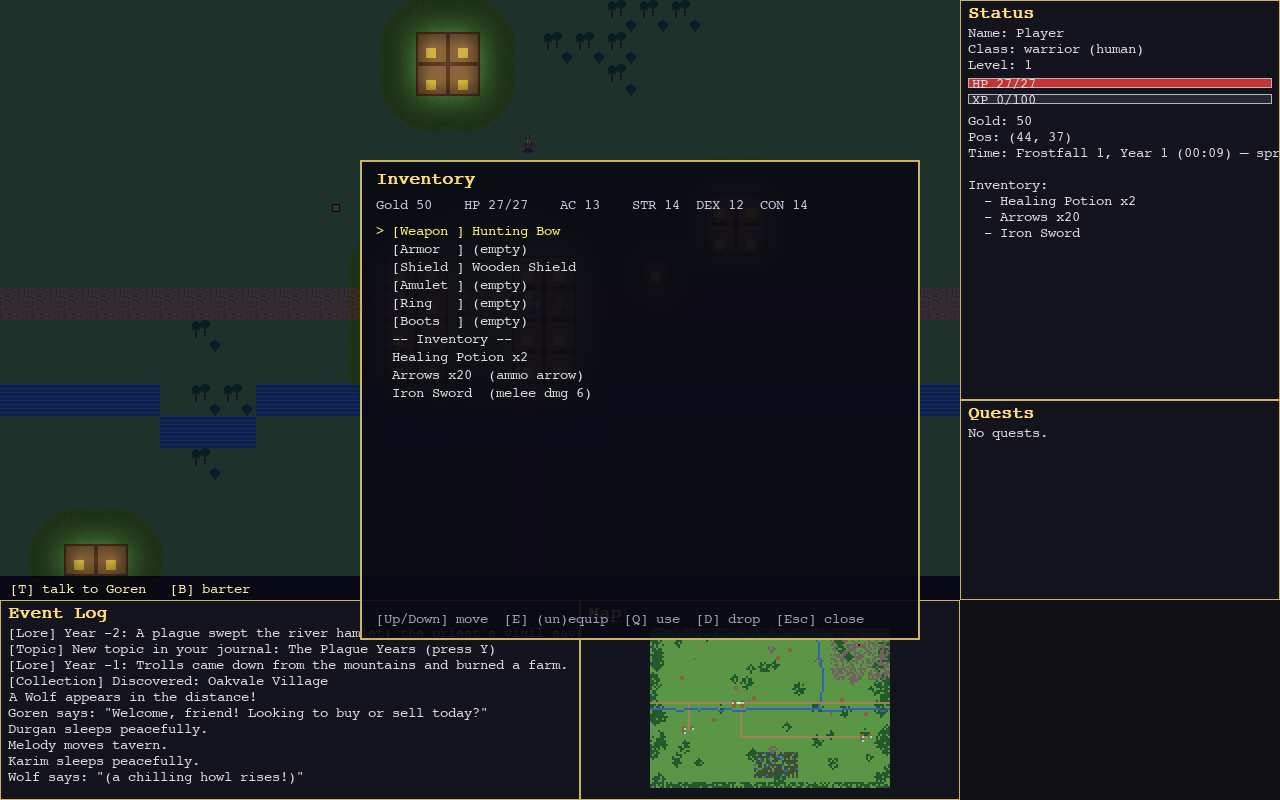
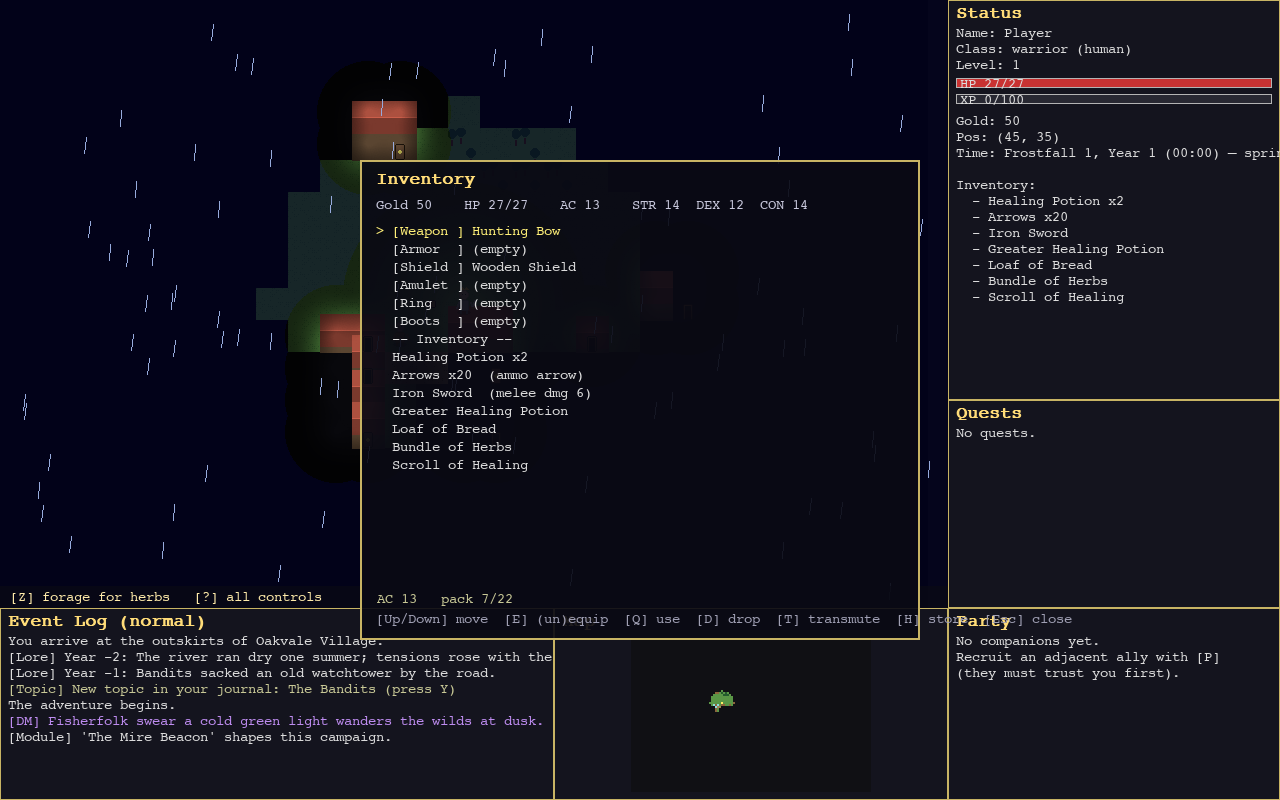
Docs: remake README to current state, fresh figures, open Phase 25
Remake README.md around the game as it actually is (Phases 0-19 complete,
20 in progress): the living world, the monster ecology (packs/tribes/
elites/dragons/nemesis), the living society (ambitions, social graph), the
tactical battle layer, the royal castle, the DM, and multiplayer — with a
systems table, an accurate controls reference from ui/controls.py, and
status notes.

Re-capture three figures headlessly: gameplay (Oakvale in the rain),
inventory/gear, and a new battle-testbed siege shot.

Open Phase 25 (Inventory, Items & the Skill Web) from new playtest notes:
region-change ground-item bleed bug, stackable-item grouping bug, magical
bags/rucksacks, a drag-and-drop character/items window, and a widened
skill lattice with skill-gated items & features.

diff --git a/README.md b/README.md
@@ -1,207 +1,144 @@
 # LLM-RPG
 
-**A locally-runnable, D&D-style role-playing game with LLM-powered NPCs.**
-Runs entirely offline out of the box (a heuristic AI keeps the world alive), and
-plugs into Ollama, Anthropic Claude, or OpenAI for richer NPC minds.
+**A locally-runnable, D&D-style role-playing game with a living world and
+LLM-powered NPCs.** It runs entirely offline out of the box — a heuristic AI
+keeps the whole world alive with zero API calls — and plugs into Ollama,
+Anthropic Claude, or OpenAI when you want richer NPC minds.
 
 ![Gameplay — Oakvale Village in the rain](docs/img/gameplay.png)
-*Exploring Oakvale Village in the rain: procedural sprites, day/night lighting,
-live minimap, event log with world lore from the pre-game history simulation.*
+*Oakvale in the rain: procedural sprites, eased day/night lighting and weather,
+fog-of-war, a live minimap, and an event log threaded with world lore, DM beats,
+and the legends of the fallen.*
 
 ```bash
 pip install -r requirements.txt
-python main.py                                  # Pygame GUI, no LLM needed
+python main.py                       # Pygame GUI, no LLM needed (heuristic AI)
+python main.py --tutorial            # start on Tutorial Island
 python main.py --provider anthropic --model claude-haiku-4-5-20251001
+python main.py --ui terminal         # text UI
 ```
 
 ---
 
-## The game today
+## What the game is today
 
-A living-world RPG on a 120×80 tile map: three settlements (Oakvale Village,
-Riverside Hamlet, Stonepine Camp) plus the Murkfen swamp, joined by roads,
-wilderness, caves that descend into procedural dungeons, a Tutorial Island
-starter zone (`--tutorial`), and named NPCs with families, schedules, needs,
-memories, opinions, and secrets.
+A living-world RPG on a streaming, effectively-endless tile map. You wake near
+**Oakvale Village**, and from there the world is yours: three settlements and
+the Murkfen swamp joined by roads, caves that drop into procedural multi-level
+dungeons, hand-built structures (a wizard's tower, a ruined keep, a seven-floor
+**royal castle**), and a wilderness that gets more dangerous the stronger you
+grow. A new game can even **begin at the castle** from the title screen.
 
-**Progression** (the RuneScape-inspired lattice): 8 skills with geometric XP
-curves and tiered gathering (mining/woodcutting/fishing → smelting/cooking/
-alchemy), gear durability with forge repairs, a collection log, skilling
-pets, regional achievement diaries, quest points + guild ranks, earned
-teleports and Agility shortcuts, and a sleep/day-summary loop.
+Nothing here waits for you. NPCs keep daily schedules, tend needs, remember what
+you did, form opinions, and — now — pursue private ambitions and drift into
+friendships and feuds with each other. Factions raid and trade overnight;
+villages produce goods and caravan them to where they're scarce; the gods watch
+your deeds; and monsters band into packs, grow into tribes that raid the towns,
+and rise into named nemeses that survive your blade and come back for revenge.
 
-**The LLM as a gameplay pillar** (all optional — the heuristic default plays
-fully offline): NPC dialog runs a structured JSON protocol where the engine
-validates every proposed action; NPCs hold injection-proof gated secrets,
-remember conversations with retrieval-scored memory, form nightly opinions,
-and notice your deeds; `/persuade`, `/intimidate`, `/deceive` are judged
-social checks with real stakes; a nightly world director and daily faction
-ticker move the world while you sleep; radiant quests keep the board alive.
+### The pillars
 
-**The Dungeon Master layer**: a charter-enforced command API (no touching
-the player, capped creations, daily budgets, full audit notebook) lets a DM
-reshape the world — new monsters, items, buildings, quests, terrain, staged
-multi-day arcs, atomic adventure modules. Three drivers: a live Claude Code
-session over the `--dm-bridge` file bridge, an autonomous in-game LLM DM
-(one planning call per game-day with campaign memory), or none.
+- **A world that lives without you.** Every night a stack of heuristic systems
+  moves the world: a world director emits rumors and events, a faction ticker
+  fights off-screen battles with a real army model, villages produce and trade,
+  the market drifts, gods drop omens, tribes grow, ambitions advance, and the
+  social graph reshapes who likes whom. All of it runs on the offline default.
 
-![NPC dialog](docs/img/dialog.png)
-*Free-text NPC conversation with quest offers inline — plus /persuade,
-/intimidate and /deceive as judged social checks with real stakes.*
+- **Monsters that behave like an ecology.** Wolves hunt in packs that focus-fire
+  the softest target and break when their leader falls; goblin and troll tribes
+  grow in strength and raid the settlements until you beat them back; the
+  wilderness scales to your party with elite champions and warbands; dragons
+  breathe fire from mountain lairs; and a champion you almost kill can become a
+  named **nemesis** who flees, rises in title, and hunts you for the rest of the
+  campaign.
+
+- **The LLM as a gameplay pillar, never a crutch.** All LLM features are optional
+  and mirrored by a heuristic path, so the game is fully playable offline. NPC
+  dialog runs a structured JSON protocol the *engine* validates; NPCs hold
+  injection-proof gated secrets, remember conversations with retrieval-scored
+  memory, and react to your deeds; `/persuade` `/intimidate` `/deceive` are
+  judged social checks with real stakes; and an optional **Dungeon Master** layer
+  plans campaign beats within a code-enforced charter.
+
+![The battle testbed — the Siege of Bloodstone](docs/img/battle.png)
+*The Phase-17 tactical layer: squads with morale, formations, flanking arcs,
+armour-vs-damage-type, siege engines and breachable walls — here a war-host
+storms the castle's curtain wall.*
 
 ### Systems overview
 
-```mermaid
-flowchart LR
-    subgraph World
-        WG[Procedural worldgen<br/>3 settlements, dungeons]
-        CAL[Calendar & seasons<br/>360-day year]
-        WX[Weather]
-        HIST[Pre-game history sim]
-    end
-    subgraph Characters
-        SCHED[NPC schedules & needs]
-        FAM[Families & gossip]
-        FAC[8 factions & reputation]
-        COMP[Companions]
-    end
-    subgraph Player
-        CBT[d20 combat<br/>crits, flanking, damage types]
-        EQ[6 equipment slots<br/>ammo, AC, bonuses]
-        SPL[Spells & mana]
-        QST[Quests & quest boards]
-        ECO[Shops, banking, crafting]
-    end
-    LLM[LLM providers<br/>heuristic / Ollama / Claude / OpenAI]
-    World --> Characters --> Player
-    LLM -.NPC actions & dialog.-> Characters
-```
-
-![Inventory](docs/img/inventory.png)
-*The inventory overlay: worn equipment slots up top, scrollable bag below.*
-
-### What's under the hood
-
-| | |
+| Area | What's in it |
 |---|---|
-| Engine | Python + pygame, single process, no asset files (procedural sprites) |
-| Codebase | ~19k lines, all modules < 500 lines, dependency-injected subsystems |
-| Tests | 650+ unit tests, content cross-reference validator |
-| Combat | 1d20 + ability mod + proficiency vs AC; nat-20 crits, flanking, silver/fire/holy damage types |
-| World | Chunk-streamed 120×80 map, BSP dungeons, weather, foraging, interiors |
-| NPCs | Class schedules (work/eat/drink/sleep), hunger & fatigue, families, gossip, faction reputation |
-| LLM layer | Pluggable providers; the default heuristic needs no LLM at all |
+| **Progression** | 12-skill lattice with geometric XP curves, tiered gathering & crafting, gear durability + forge repair, a collection log, skilling pets with loyalty, regional achievement diaries, quest points → guild ranks, earned teleports & Agility shortcuts |
+| **Combat depth** | degrees of success, flanking & opportunity attacks, cover & true line-of-sight, ranged fidelity (ammo, aim, reload), concentration spells, weapon actions, body-part wounds, infection, dying/stabilize, a Souls-like bloodstain on death |
+| **Monsters & menace** | dragons + apex tier, overworld lairs with hoards, coordinated packs, tribes that grow & raid, party-scaled elites & warbands, the Shadow-of-Mordor nemesis system |
+| **The living world** | nightly world director, faction ticker with a real Lanchester army model, settlement production + caravans + market prices, five gods with favor & miracles, disease, weather, two moons & conjunctions |
+| **The living society** | NPC needs & schedules, retrieval-scored memory & nightly opinions, gated secrets, bond ceremonies, heart events, a topic journal, ambitions that pay off (retire, wed, master a craft), and a peer social graph of friendships & feuds |
+| **The world itself** | streaming endless regions, destructible tiles & breachable walls, fire/oil/water/blood surfaces, floods, giants that smash & rebuild, environmental traversal (wade/swim/climb/dive) with a breath clock, claimable homes, a pack mule |
+| **Set-pieces** | multi-level buildings & dungeons, boss fights with telegraphed AoE & phases, a seven-floor royal castle with a living court and an intrigue questline, on-screen and off-screen sieges |
+| **The Dungeon Master** | a typed, budgeted, charter-checked command set; one planning call per game-day; a persistent Legendarium of everything created and everything slain |
+| **Multiplayer & agents** | a transport-free client/world contract with an optional TCP wire; agent-driven heroes that play through the real player API; an away-mode heartbeat |
 
-### Status
-
-Phases 0–5 of the development plan are **complete** (July 2026): the repair
-phase, the data-driven content layer, the progression lattice, the LLM
-pillar, quests & world, and combat & feel. Phase 6 (the Dungeon Master) is
-largely complete; Phase 7 (visible NPC conflict, conspiracy, squad tactics)
-is queued from playtest findings. Development runs in small tested rounds on
-`v2-development` — see `SESSION_LOG.md` for the full record.
+![Inventory & gear](docs/img/inventory.png)
+*The I-panel: equipment, bags, and use/equip/drop — the character screen the game
+drives from data.*
 
 ---
-
-## The plan: from tech demo to professional RPG
-
-Full detail in [`DEVELOPMENT_PLAN.md`](DEVELOPMENT_PLAN.md). It was built from a
-line-level code audit plus design research into Old School RuneScape, Stardew
-Valley, Caves of Qud, Kenshi, and shipped LLM-NPC games (Suck Up!, Dead Meat,
-1001 Nights, the Generative Agents paper).
-
-```mermaid
-flowchart TD
-    P0["Phase 0 — Repair<br/>fix save/load data loss, unreachable shop,<br/>crafting & companion UIs, wire weather/needs,<br/>discoverability hints"]
-    P1["Phase 1 — Data-driven content<br/>items/quests/monsters/spells as JSON"]
-    P2["Phase 2 — Progression lattice (RuneScape layer)<br/>8–10 skills, gathering nodes, production chains,<br/>collection log, pets, diaries, shortcuts & teleports"]
-    P3["Phase 3 — LLM as gameplay pillar<br/>structured dialog protocol, per-NPC memory,<br/>gated secrets, LLM-judged persuasion,<br/>nightly world director"]
-    P4["Phase 4 — Quests & world<br/>radiant quest generation, 8–12 handcrafted quests,<br/>Tutorial Island, regional identity, history relics"]
-    P5["Phase 5 — Combat & feel<br/>enemy AI profiles, spell UI, tactical verbs,<br/>faction ticker, sound, day-summary loop"]
-    P0 --> P1 --> P2 --> P4
-    P0 --> P3 --> P4 --> P5
-```
-
-### The three design pillars
-
-1. **A RuneScape-style progression lattice.** Many parallel skill tracks with a
-   geometric XP curve and an unlock every few levels; gather → process → consume
-   chains in a closed "Ironman" economy where combat eats food, ammo, and potions;
-   collection log, skilling pets, and regional achievement diaries for long-tail
-   goals.
-2. **LLM NPCs that matter mechanically.** *Engine owns truth, LLM owns voice*:
-   structured JSON dialog actions, secrets held as gated tokens (immune to prompt
-   injection by construction), persuasion checks the LLM adjudicates against your
-   CHA with real stakes, per-NPC retrieval memory that survives saves, and one
-   nightly "director" call that spawns world events instead of costly per-NPC
-   simulation.
-3. **A handcrafted world worth exploring.** Quests whose rewards are capability
-   unlocks (teleports, shortcuts, access) rather than XP; a Tutorial Island of
-   LLM instructor NPCs; history simulation that leaves relics, ruins, and grudges
-   you can actually find.
-
-### Milestones
-
-| Milestone | Delivers |
-|---|---|
-| **M1 Repair** | Everything advertised actually works, zero save-data loss |
-| **M2 Foundation** | All content data-driven (JSON), scaling unblocked |
-| **M3 Progression** | 10+ hours of self-directed skill/collection play |
-| **M4 The Pillar** | Talk your way into secrets, discounts, quests, and out of fights |
-| **M5 The World** | Radiant + handcrafted quests, tutorial, themed regions |
-| **M6 Polish** | Tactical combat, spell UI, sound, day-loop hooks |
-
----
-
-## Quick start
-
-```bash
-python3 -m venv .venv && .venv/bin/pip install -r requirements.txt
-.venv/bin/python main.py                        # GUI, heuristic NPCs (no LLM)
-.venv/bin/python main.py --ui terminal          # terminal mode
-.venv/bin/python main.py --provider ollama --model llama3
-.venv/bin/python main.py --provider anthropic --model claude-haiku-4-5-20251001
-.venv/bin/python main.py --load                 # resume quicksave
-.venv/bin/python main.py --tutorial             # start on Tutorial Island
-.venv/bin/python main.py --dm-bridge            # enable the DM file bridge
-```
-
-For cloud providers: `pip install anthropic` or `pip install openai` and set the
-matching API key environment variable.
 
 ## Controls (GUI)
 
-| Key | Action | Key | Action |
-|---|---|---|---|
-| WASD / arrows | Move | I | Inventory |
-| SPACE / F | Attack | Q | Quest log |
-| T | Talk to NPC | C | Character sheet |
-| 1–9 (dialog) | Accept / turn in quest | Z | Forage |
-| G / E | Pick up | X / V | Fireball / Heal |
-| H | Drink potion | N / M | Bank deposit / withdraw |
-| B | Barter with adjacent merchant | R | Ranged attack |
-| K | Crafting menu | L | Look around |
-| P | Recruit / dismiss companion | X | Spellbook |
-| O | Collection log | J | Achievement diaries |
-| U | Travel menu | Y | Topic & legends journal |
-| ENTER | Sleep at inn (day summary) | SHIFT+move | Disengage |
-| SHIFT+F | Shove | SHIFT+R | Aimed shot |
-| TAB | Enter building / cave | F5 / F9 | Save / Load |
-| F1 or `/` | Help | ESC | Close / quit |
+**Move & explore** — `WASD`/arrows walk (a map edge streams a new region);
+`Numpad 1-9` walk in 8 directions; `SHIFT+move` disengage; `TAB` enter/leave a
+building or cave; `SHIFT+TAB` force a locked door; `L` look, `SHIFT+L` event-log
+detail; `ENTER` sleep at an inn or camp outdoors.
+
+**Fight** — `SPACE`/`F` melee; `R` ranged, `SHIFT+R` aimed shot; `[` `]` cycle
+target; `SHIFT+F` shove; `SHIFT+V` weapon action; `SHIFT+T` trip; `SHIFT+I`
+demoralize; `SHIFT+B` feint; `SHIFT+H` battle medicine; `X` spellbook, `V`
+quick-Heal; `H` drink a potion.
+
+**People & world** — `T` talk (`/persuade` `/intimidate` `/deceive`); `B` barter;
+`G`/`E` pick up · use furniture · dig; `SHIFT+G` carry a downed body; `Z` forage
+/ harvest; `SHIFT+Z` treat your pet; `P` party; `SHIFT+P` pray; `K` craft;
+`N`/`M` bank; `1–5` answer a confronting guard.
+
+**Panels** — `I` inventory & gear · `C` character · `Q` quests · `O` collection
+· `J` diaries · `U` travel · `Y` topic journal · `,` settings · `F1`/`?` help ·
+`F5`/`F9` quicksave/quickload · `F11` fullscreen · `ESC` close.
+
+---
 
 ## Development
 
-```bash
-.venv/bin/python -m unittest discover tests/    # 650+ tests
-.venv/bin/python -m items.data_validate         # content cross-ref checks
-```
+- **Branch:** work happens on `v2-development` in small, tested rounds; every
+  green round is committed **and** pushed.
+- **Tests:** `.venv/bin/python -m unittest discover tests/` — **1950+** unit
+  tests, kept green. Content is validated with
+  `.venv/bin/python -m items.data_validate` after any `data/` edit.
+- **Navigation:** read **[`INTERFACE.md`](INTERFACE.md)** first — it maps every
+  module. **[`DEVELOPMENT_PLAN.md`](DEVELOPMENT_PLAN.md)** holds the phased plan;
+  **[`SESSION_LOG.md`](SESSION_LOG.md)** narrates every round.
+- **Content is data, not code.** Items, recipes, spells, monsters, quests, NPCs,
+  skills, structures, lairs, tribes and more live in `data/*.json`. New content
+  is a JSON edit plus a validator pass — never a re-hardcode.
+- **File-size rule:** every source file stays under 500 lines; modules are split
+  before they grow past it.
 
-- [`INTERFACE.md`](INTERFACE.md) — codebase navigation map (read first)
-- [`DEVELOPMENT_PLAN.md`](DEVELOPMENT_PLAN.md) — the full phased plan
-- [`SESSION_LOG.md`](SESSION_LOG.md) — development history
-- All source files stay under 500 lines; content additions should go through the
-  (upcoming) JSON data layer.
+### Status
+
+Phases 0–18 are complete (repair → progression → the LLM pillar → quests & world
+→ combat depth → the Dungeon Master → conflict → autonomous-world imports →
+living buildings → destructible world → traversal → the rules of living →
+advanced graphics → the living economy → the tactical battle layer → the royal
+castle). **Phase 19 (Monsters & Menace)** — dragons, lairs, packs, tribes,
+elites, the nemesis — is complete. **Phase 20 (the Living Society & the Gods)**
+is in progress. See `DEVELOPMENT_PLAN.md` for what's next.
+
+## Requirements
+
+Python 3.12, `pygame`, `numpy`, `pytest` (see `requirements.txt`). No network is
+required to play — LLM providers are strictly opt-in.
 
 ## License
 
-MIT
+See repository for license details.

diff --git a/DEVELOPMENT_PLAN.md b/DEVELOPMENT_PLAN.md
@@ -3899,3 +3899,41 @@ map of real places worth travelling between.
 - [ ] **P24.4 Roads, trade & travellers.** The places are stitched by
   roads the P16.2b caravans and NPC travellers actually use, so the world
   between towns is alive with traffic, not empty.
+
+## Phase 25 — Inventory, Items & the Skill Web  (George's Ultraplan 2, 2026-07-12)
+
+Two live bugs in how the world holds its stuff, then a real inventory
+experience and a much wider skill/item web. Bugs first (they're cheap and
+they bite every session).
+
+- [ ] **P25.0 (BUG) Region-change ground items.** Dropped treasure and
+  KO'd bodies reappear in a NEW region at the same coordinates: the
+  streamer (`world/chunked_world.py`) caches terrain, locations and NPCs
+  per region but never caches or clears `world.ground_items`, so the flat
+  (x,y) dict bleeds across the boundary. Fix: cache & restore `ground_items`
+  per region alongside the rest (and clear for a freshly-generated region).
+- [ ] **P25.1 (BUG) Stackable items don't group.** Arrows and other
+  stackables take one inventory slot EACH instead of stacking, filling the
+  pack. `Item` already carries `stackable`/`quantity` and renders "name
+  xN" — the miss is on the add path (`inventory.append` everywhere). Fix:
+  a single `give_item`/`add_to_inventory` helper that merges a stackable
+  into an existing stack (by id) and is used by pickup, buy, trade, loot.
+- [ ] **P25.2 Magical bags & rucksacks.** Containers that raise carry —
+  a plain rucksack, a quiver (ammo only), a magical bottomless bag — as
+  `data/items` gear that `engine/carry.py` reads for its slot budget; some
+  slot-typed (a quiver holds arrows, not armour).
+- [ ] **P25.3 The character & items window.** A dedicated drag-and-drop
+  screen: the paperdoll with equipment slots, the bag grid, the quiver —
+  drag an item onto the character to equip, between bags to move, with
+  item graphics. The GUI face of the inventory the game has always had in
+  data.
+- [ ] **P25.4 The skill web — vastly expanded.** Many more skills beyond
+  the current 12 (thievery/lockpicking, herbalism, enchanting, arcana &
+  the magic schools, taming/beastcraft, tailoring, runecrafting,
+  scavenging…), each with its XP curve, a pet, and a teacher — the
+  `data/skills.json` lattice widened.
+- [ ] **P25.5 Skill-gated items & features.** New content that REQUIRES a
+  skill and its tools, so the skills matter: an enchanting table (Enchanting
+  + reagents), lockpicking real locks (Thievery + picks), taming a beast
+  companion (Beastcraft + bait), brewing (Alchemy II), runes (Runecrafting)
+  — each a feature + the items it needs, content-as-data.

diff --git a/SESSION_LOG.md b/SESSION_LOG.md
@@ -5347,3 +5347,32 @@ and announced only once; run_day drifting a private pair; monsters kept
 out of the graph; and friends AND feuds emerging on their own across 40
 nights). Remainder P20.2b: gossip that shapes opinion, and rivalry at the
 faction scale.
+
+## Docs refresh + Phase 25 opened (2026-07-12)
+
+At George's request, brought the docs up to the game's real state after the
+long Phase 19–20 arc and captured a fresh batch of requirements.
+
+The README was remade from the ground up: it had frozen around the
+pre-Phase-6 game (eight skills, three settlements, no battle layer). The
+new one describes the game as it is — the living world that moves every
+night, the monster ecology (packs, tribes, elites, dragons, the nemesis),
+the living society (ambitions, the social graph), the tactical battle
+layer, the royal castle, the Dungeon Master, and multiplayer — with a
+systems table, an accurate controls reference pulled from the single
+source of truth (`ui/controls.py`), and current build/status notes.
+
+Three figures were re-captured headlessly (pygame renders to an in-memory
+surface under the dummy driver, so `pygame.image.save` works with no
+display): a fresh gameplay shot of Oakvale in the rain (now showing the
+lighting, fog-of-war, and an event log carrying lore/DM/legend beats), the
+inventory/gear panel, and a new shot of the Phase-17 battle testbed
+mid-siege of Bloodstone.
+
+And Phase 25 — Inventory, Items & the Skill Web — was opened from a new
+round of playtest notes: two live bugs first (dropped treasure and bodies
+bleeding across region boundaries because the streamer never caches
+`ground_items`; and stackable items like arrows taking a slot each instead
+of grouping), then magical bags & rucksacks, a drag-and-drop
+character/items window, and a much wider skill lattice with skill-gated
+items and features to make the skills matter.